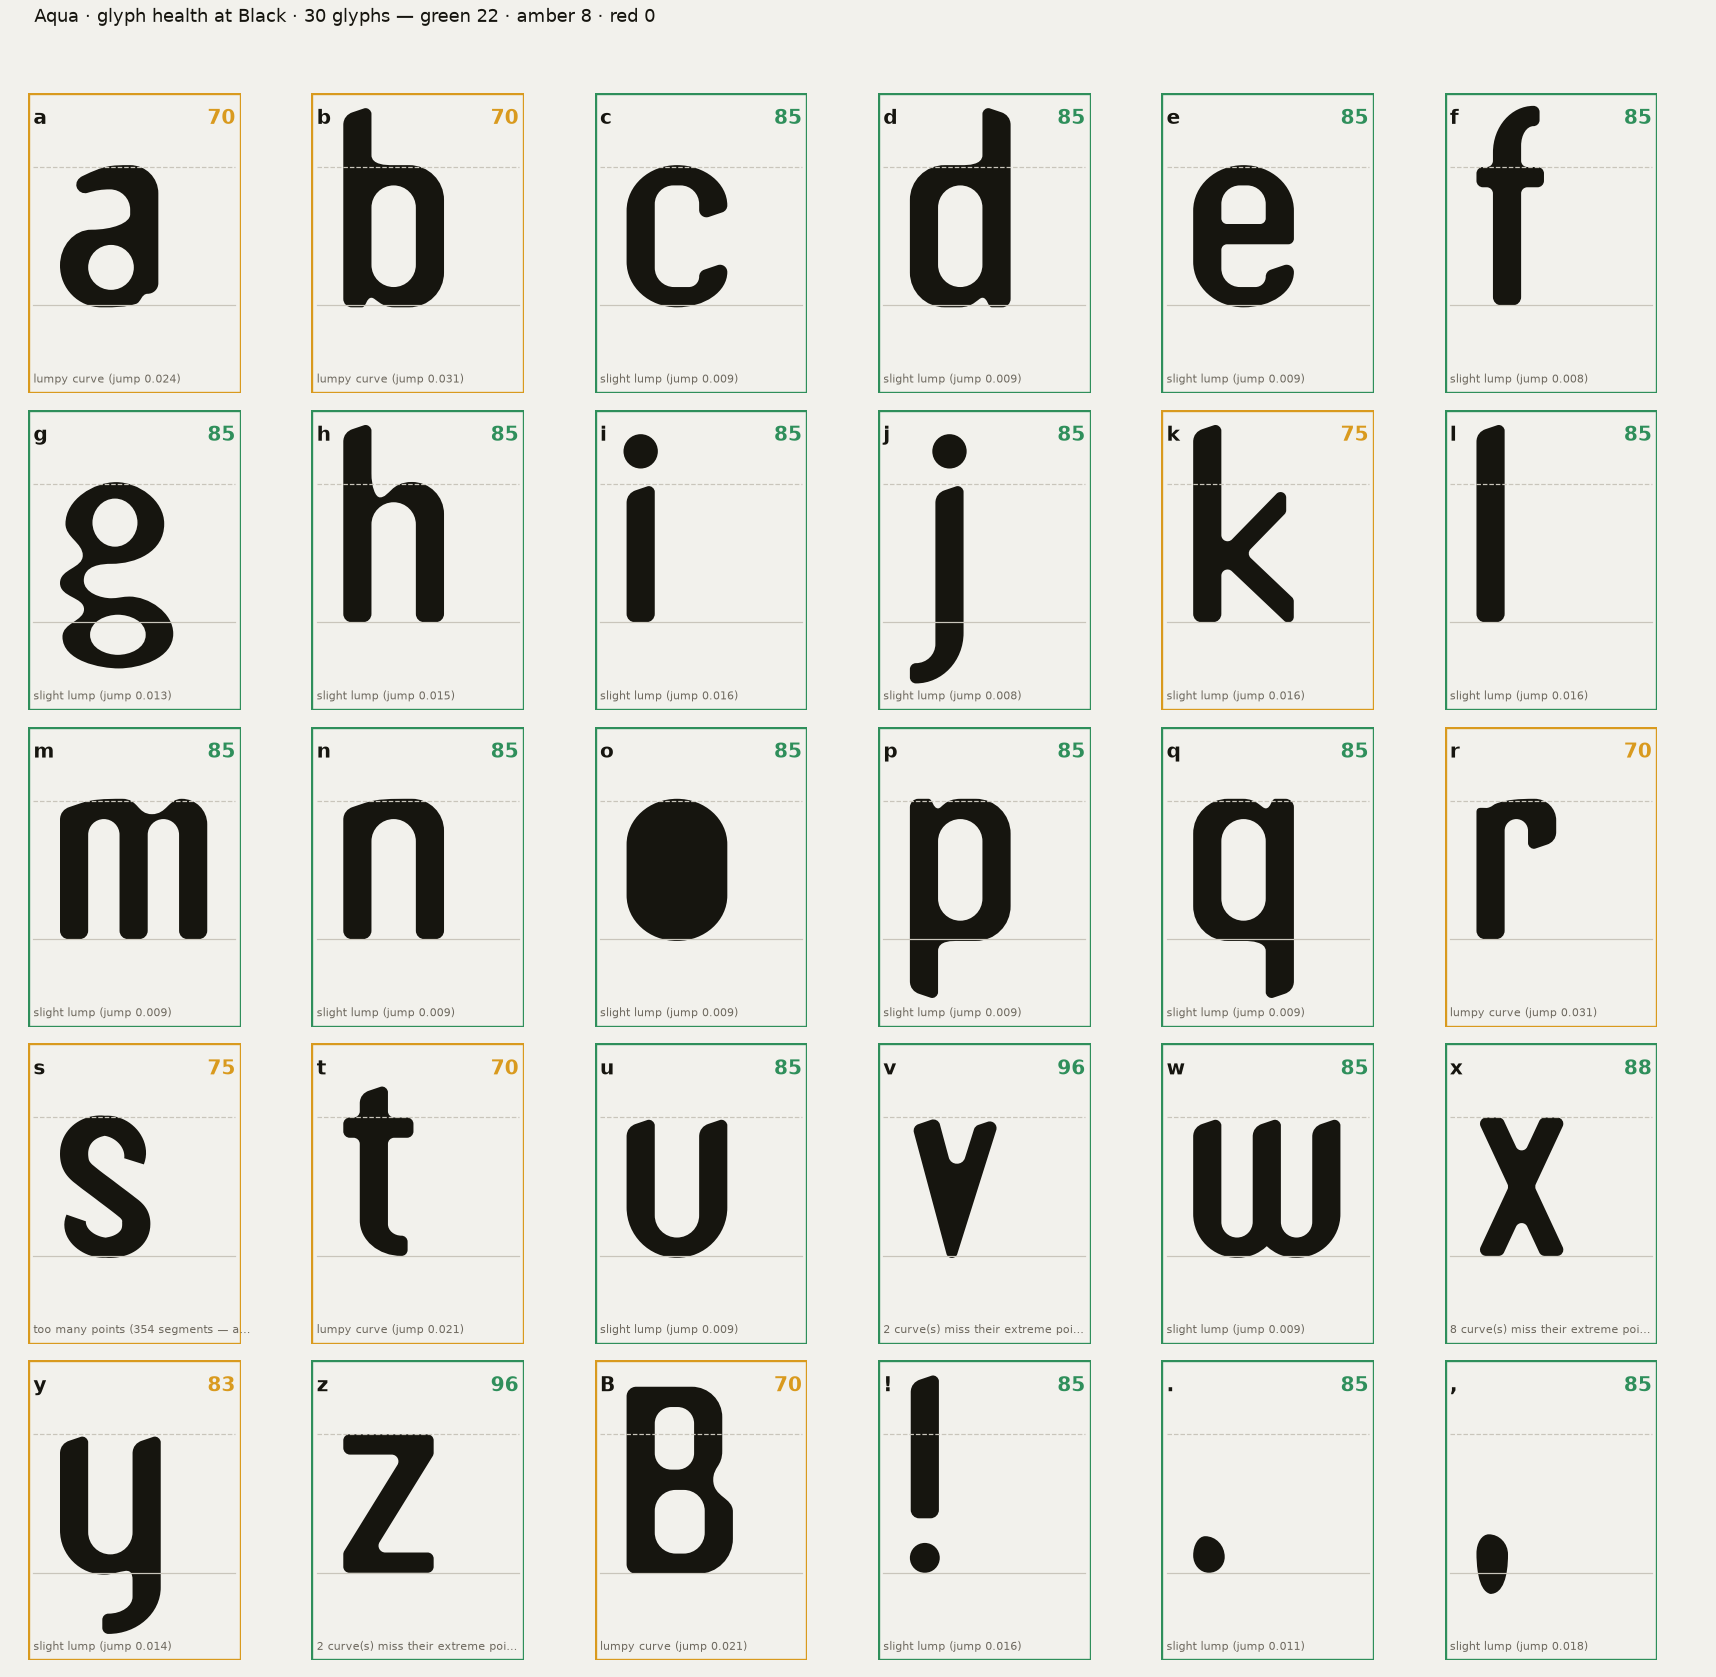
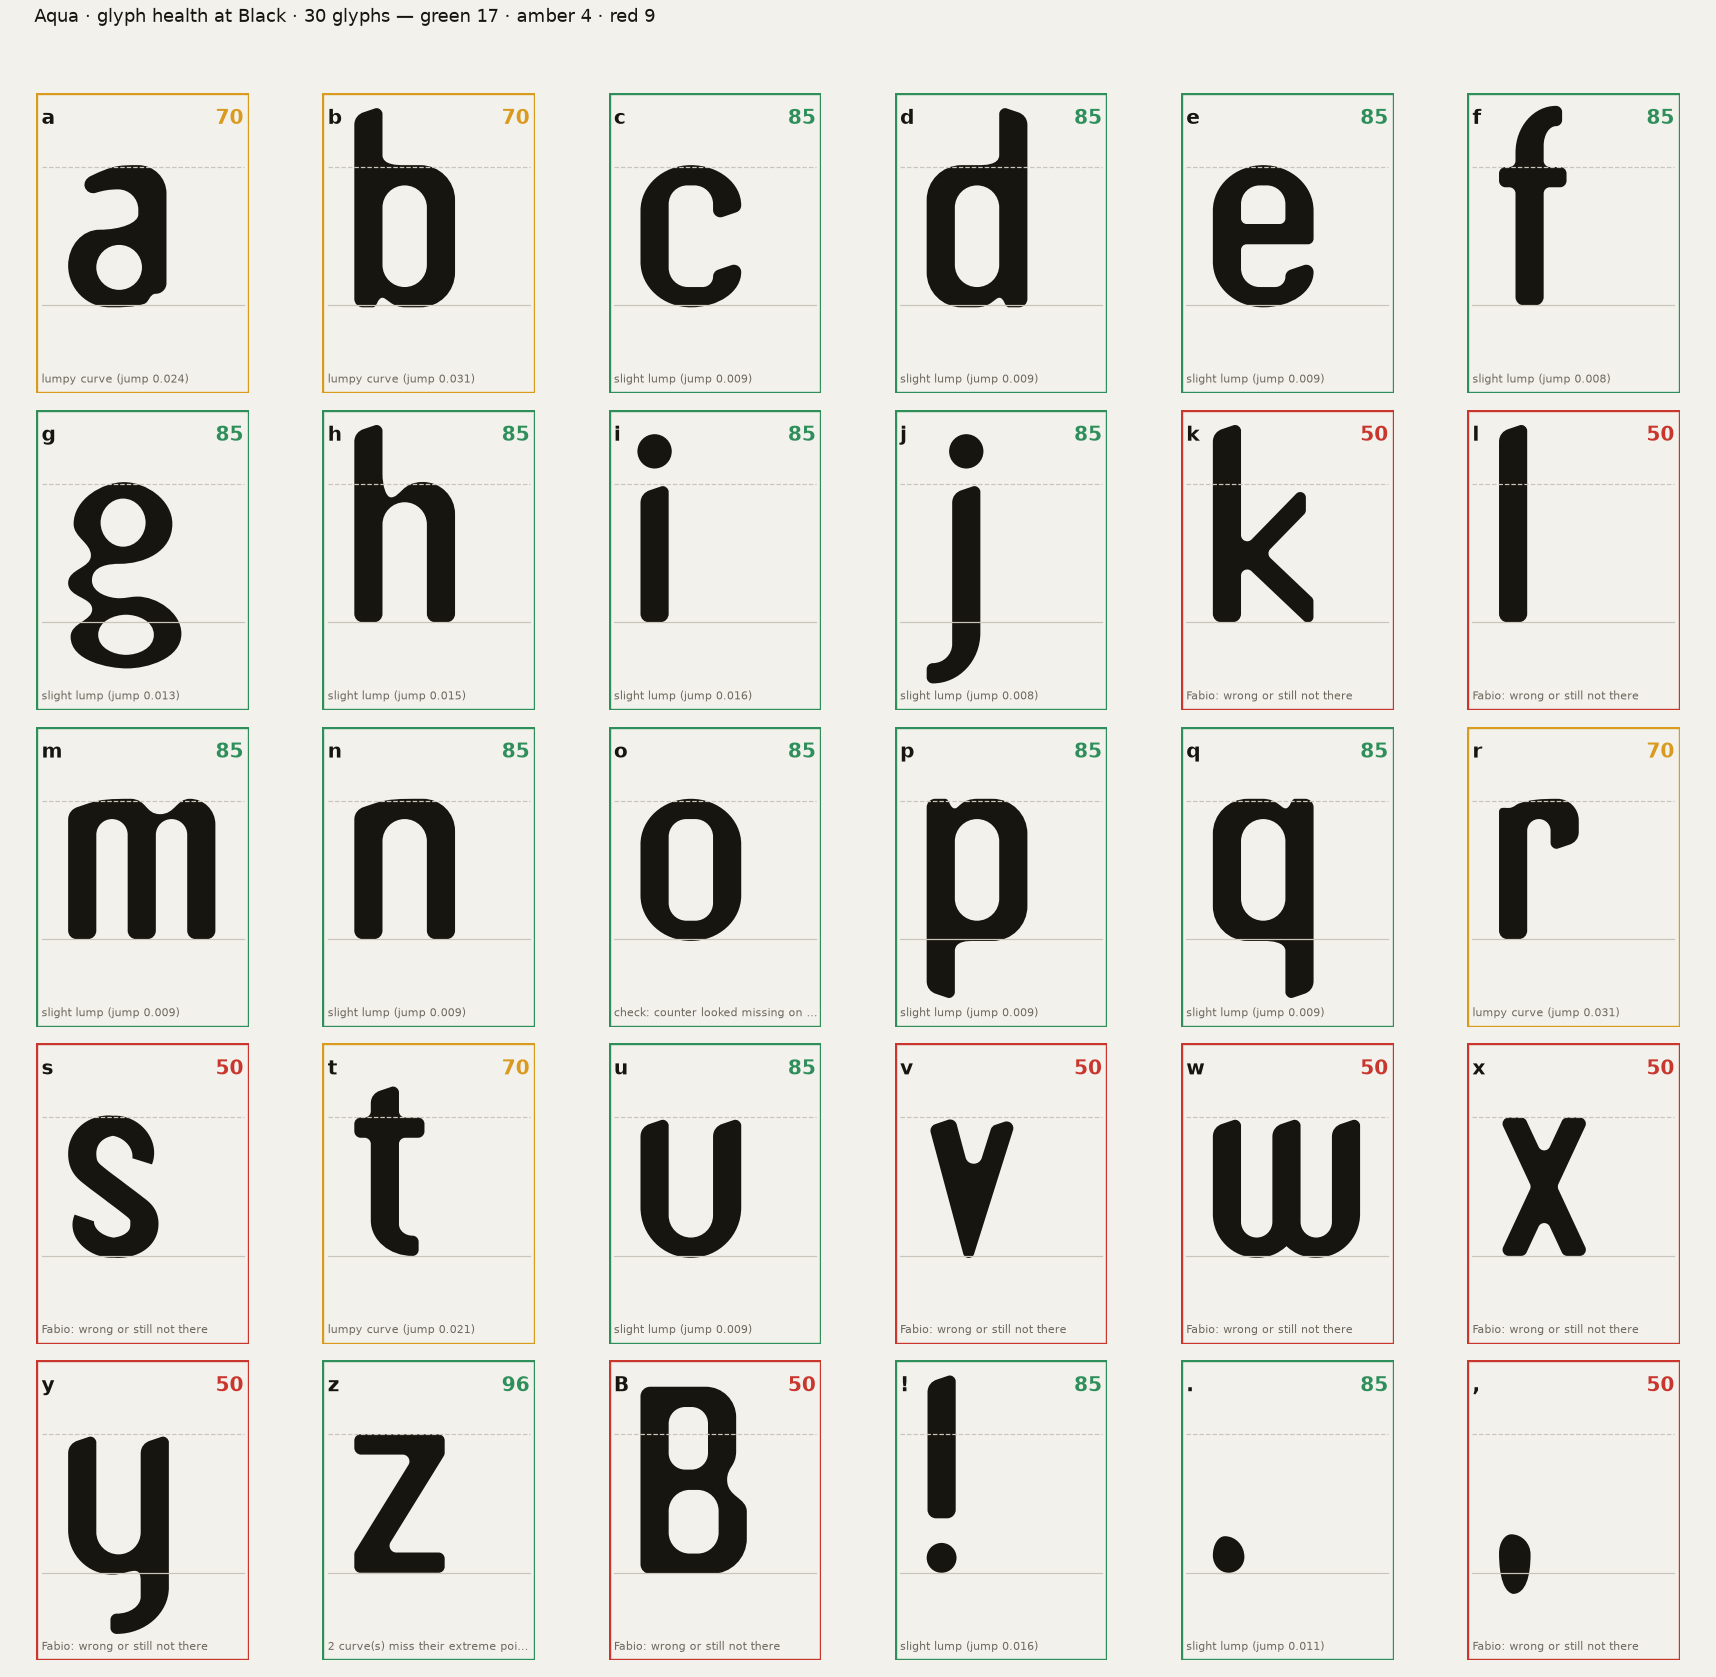
Health: fix even-odd fill in the sheet; record Fabio's verdicts
The sheet drew counters with matplotlib's nonzero rule, so the o's counter
(wound the same way as its outer) filled in. Resolve even-odd with skia
before drawing. Add tools/hand.json — Fabio's own verdicts, merged into
health.json: a glyph he marks 'not Aqua yet' is red whatever its geometry.
First list: k l s v w x y B comma. Sheet now 17 green / 4 amber / 9 red.

Claude-Session: https://claude.ai/code/session_01AufTLR6FUSxSFH28PcLESA

diff --git a/tools/render_health.py b/tools/render_health.py
@@ -11,6 +11,7 @@ matplotlib.use("Agg")
 import matplotlib.pyplot as plt
 from matplotlib.path import Path as MP
 from matplotlib.patches import PathPatch, Rectangle
+import pathops
 
 sys.path.insert(0, str(Path(__file__).resolve().parent))
 from health import parse_path
@@ -35,14 +36,34 @@ for i, name in enumerate(names):
     ax = axs[i // cols][i % cols]
     g = glyphs[STEM]["glyphs"][name]
     subs = parse_path(g["d"], g["ox"], g["oy"])
-    verts, codes = [], []
+    # The page fills with fill-rule="evenodd"; matplotlib fills nonzero. Resolve the
+    # even-odd outline with skia first so counters stay counters whatever their winding.
+    sk = pathops.Path()
+    sk.fillType = pathops.FillType.EVEN_ODD
     for sub in subs:
-        first = True
+        sk.moveTo(*sub[0][0])
         for (p0, c1, c2, p3, k) in sub:
-            if first:
-                verts.append(p0); codes.append(MP.MOVETO); first = False
-            verts += [c1, c2, p3]; codes += [MP.CURVE4] * 3
-        verts.append(verts[0]); codes.append(MP.CLOSEPOLY)
+            sk.cubicTo(*c1, *c2, *p3)
+        sk.close()
+    sk.simplify()
+    verts, codes = [], []
+    for verb, pts in sk.segments:
+        if verb == "moveTo":
+            verts.append(pts[0]); codes.append(MP.MOVETO)
+        elif verb == "lineTo":
+            verts.append(pts[0]); codes.append(MP.LINETO)
+        elif verb == "qCurveTo":
+            # skia may emit quads; lift to cubic
+            p0 = verts[-1]
+            for j in range(len(pts) - 1):
+                q = pts[j]; e = pts[j + 1]
+                verts += [(p0[0] + 2 / 3 * (q[0] - p0[0]), p0[1] + 2 / 3 * (q[1] - p0[1])),
+                          (e[0] + 2 / 3 * (q[0] - e[0]), e[1] + 2 / 3 * (q[1] - e[1])), e]
+                codes += [MP.CURVE4] * 3; p0 = e
+        elif verb == "curveTo":
+            verts += list(pts); codes += [MP.CURVE4] * 3
+        elif verb == "closePath":
+            verts.append(verts[0]); codes.append(MP.CLOSEPOLY)
     ax.add_patch(PathPatch(MP(verts, codes), facecolor=INK, edgecolor="none"))
     h = health[name]
     c = COL[h["colour"]]

diff --git a/tools/health.py b/tools/health.py
@@ -21,6 +21,8 @@ from pathlib import Path
 ROOT = Path(__file__).resolve().parent
 SRC = ROOT / "out" / "glyphs.json"
 DST = ROOT / "out" / "health.json"
+HAND_FILE = ROOT / "hand.json"
+HAND = json.loads(HAND_FILE.read_text()) if HAND_FILE.exists() else {}
 
 NUM = re.compile(r"[-+]?(?:\d+\.\d*|\.\d+|\d+)(?:[eE][-+]?\d+)?")
 
@@ -286,8 +288,18 @@ def main():
         else:
             comp = (True, "ok")
         score, colour, worst, flags = score_glyph(per, comp)
+        hand_note = None
+        if name in HAND.get("not_aqua", {}):
+            hand_note = "Fabio: " + HAND["not_aqua"][name]
+            score, colour = min(score, 50), "red"
+            flags = [hand_note] + flags
+        elif name in HAND.get("check", {}):
+            hand_note = "check: " + HAND["check"][name]
+            flags = [hand_note] + flags
+        elif name in HAND.get("approved", {}):
+            hand_note = "approved by Fabio"
         report[name] = dict(score=score, colour=colour, worst_stem=worst, compatible=comp[0],
-                            flags=flags, stems=per)
+                            hand=hand_note, flags=flags, stems=per)
     DST.write_text(json.dumps(report, indent=1))
     # table
     print(f"{'glyph':8}{'score':>6}  {'colour':7}{'segs':>6}{'jump':>8}{'r_min':>7}{'nonmono':>8}{'sq':>4}{'lsb':>6}{'rsb':>6}  flags")
